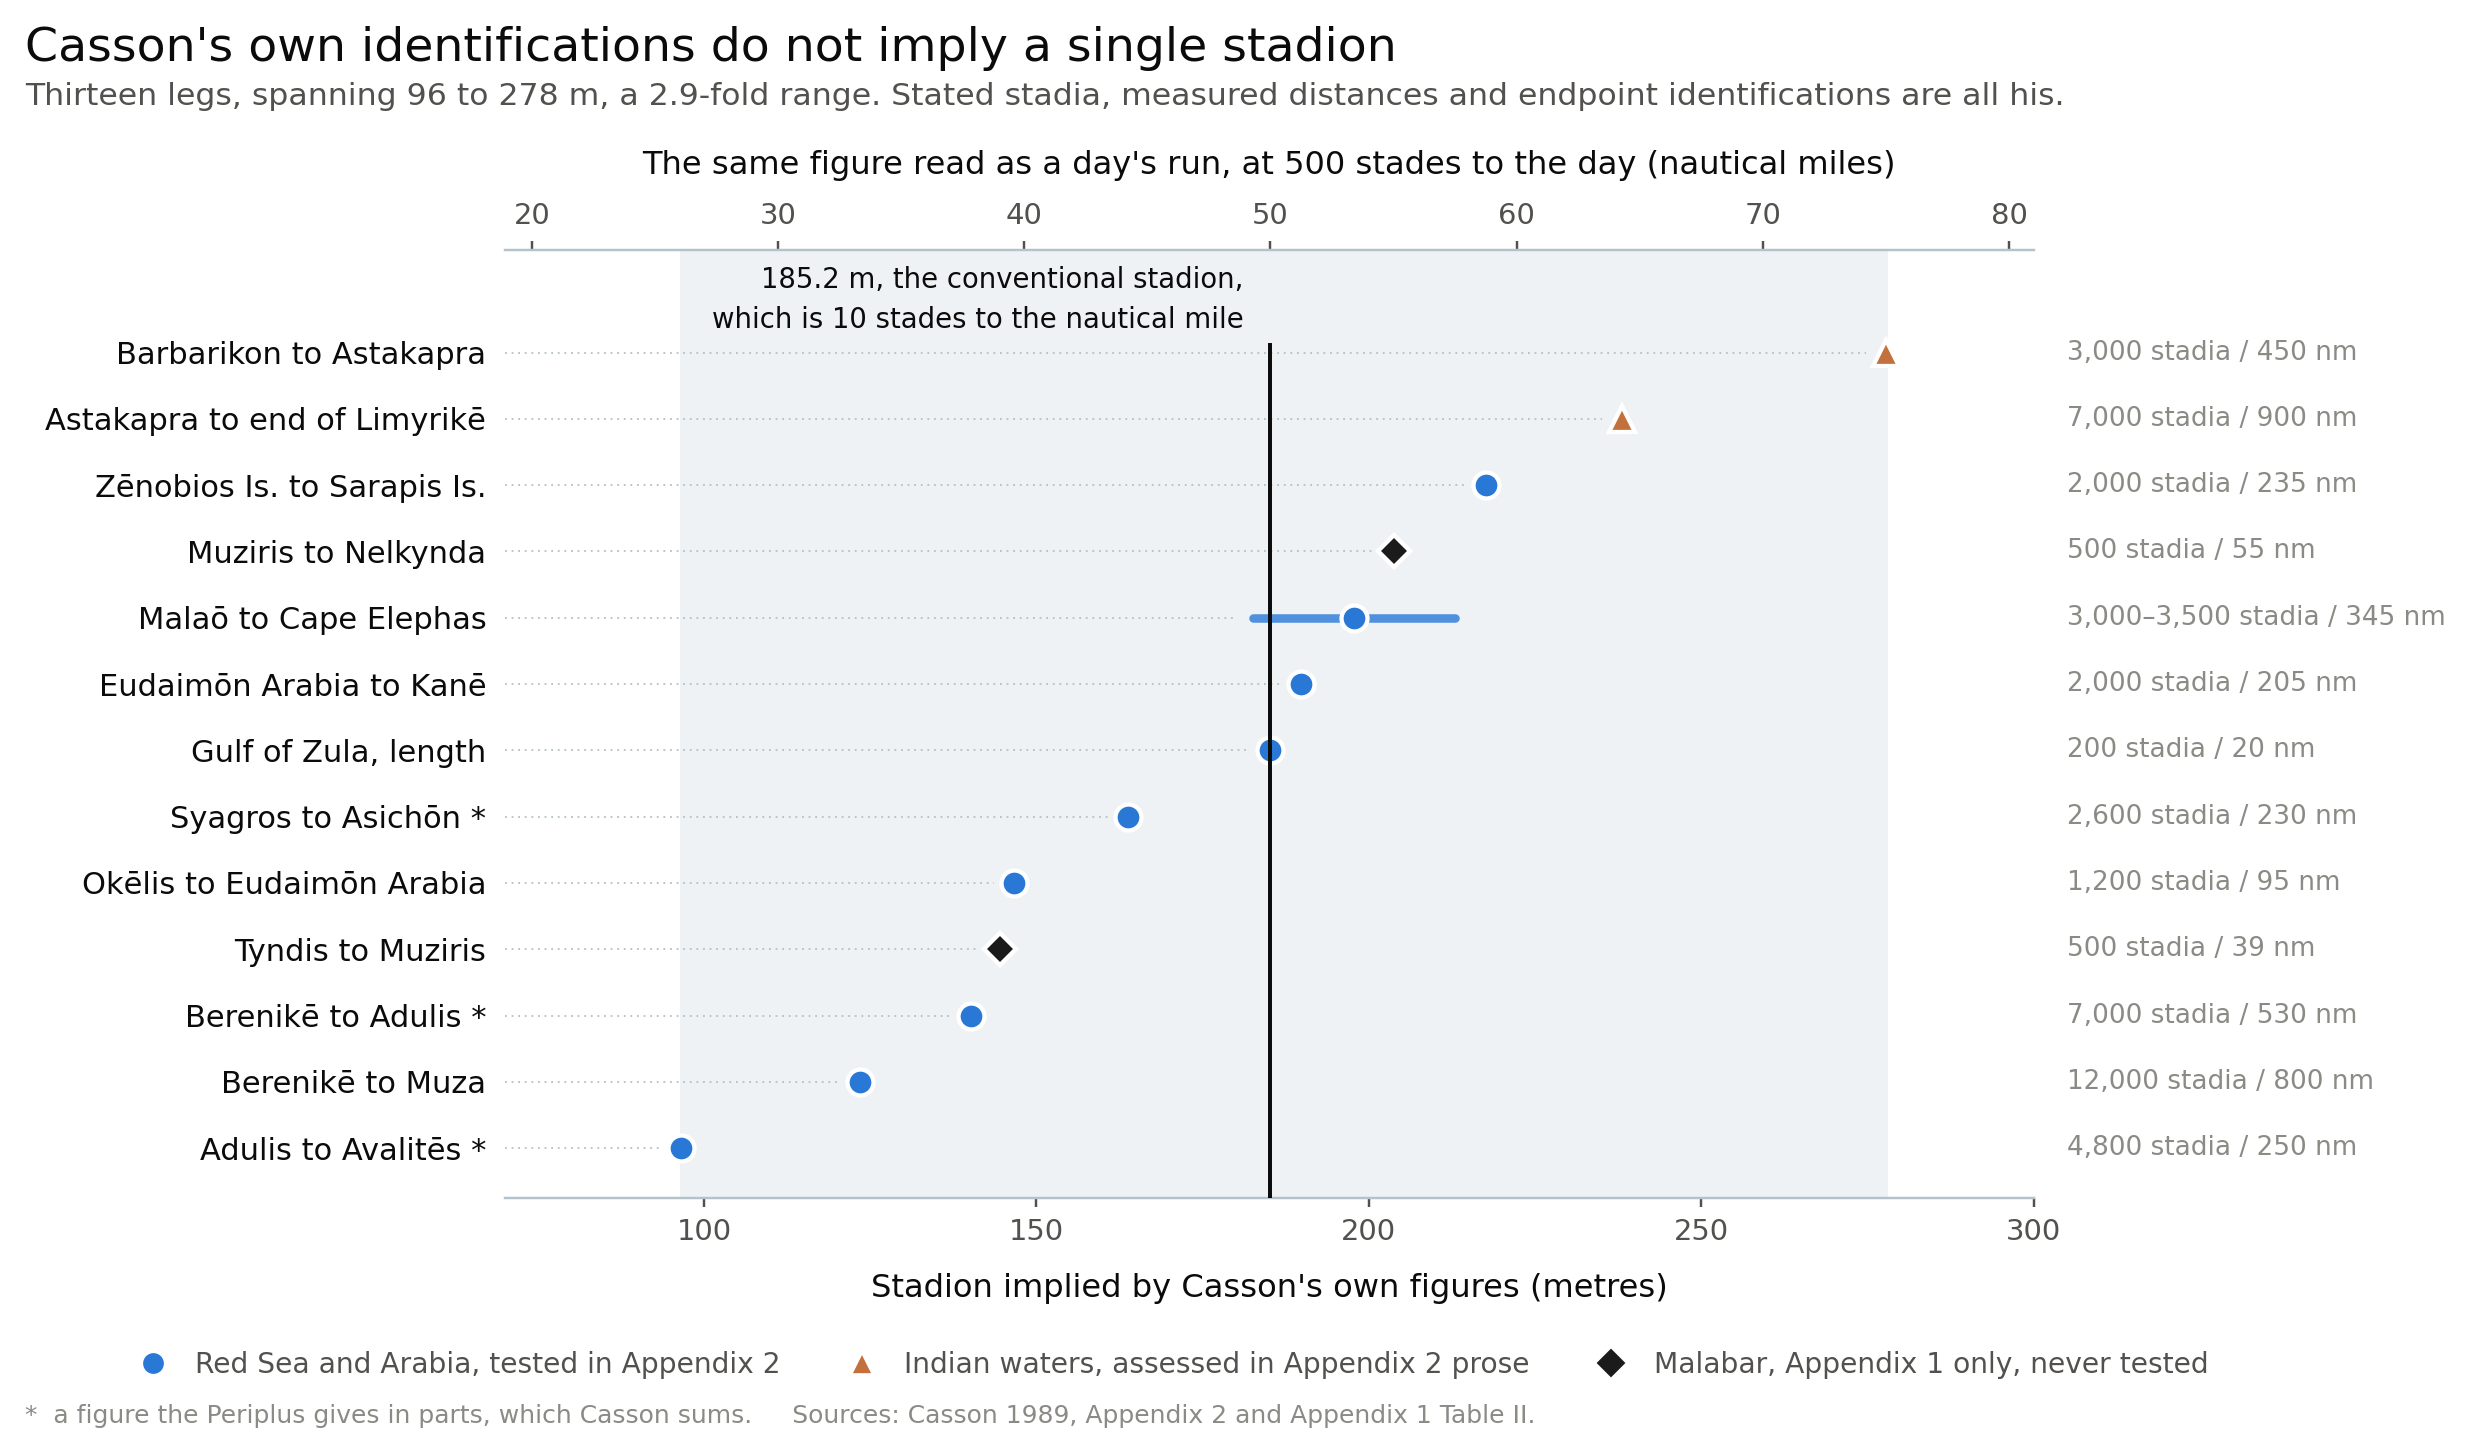
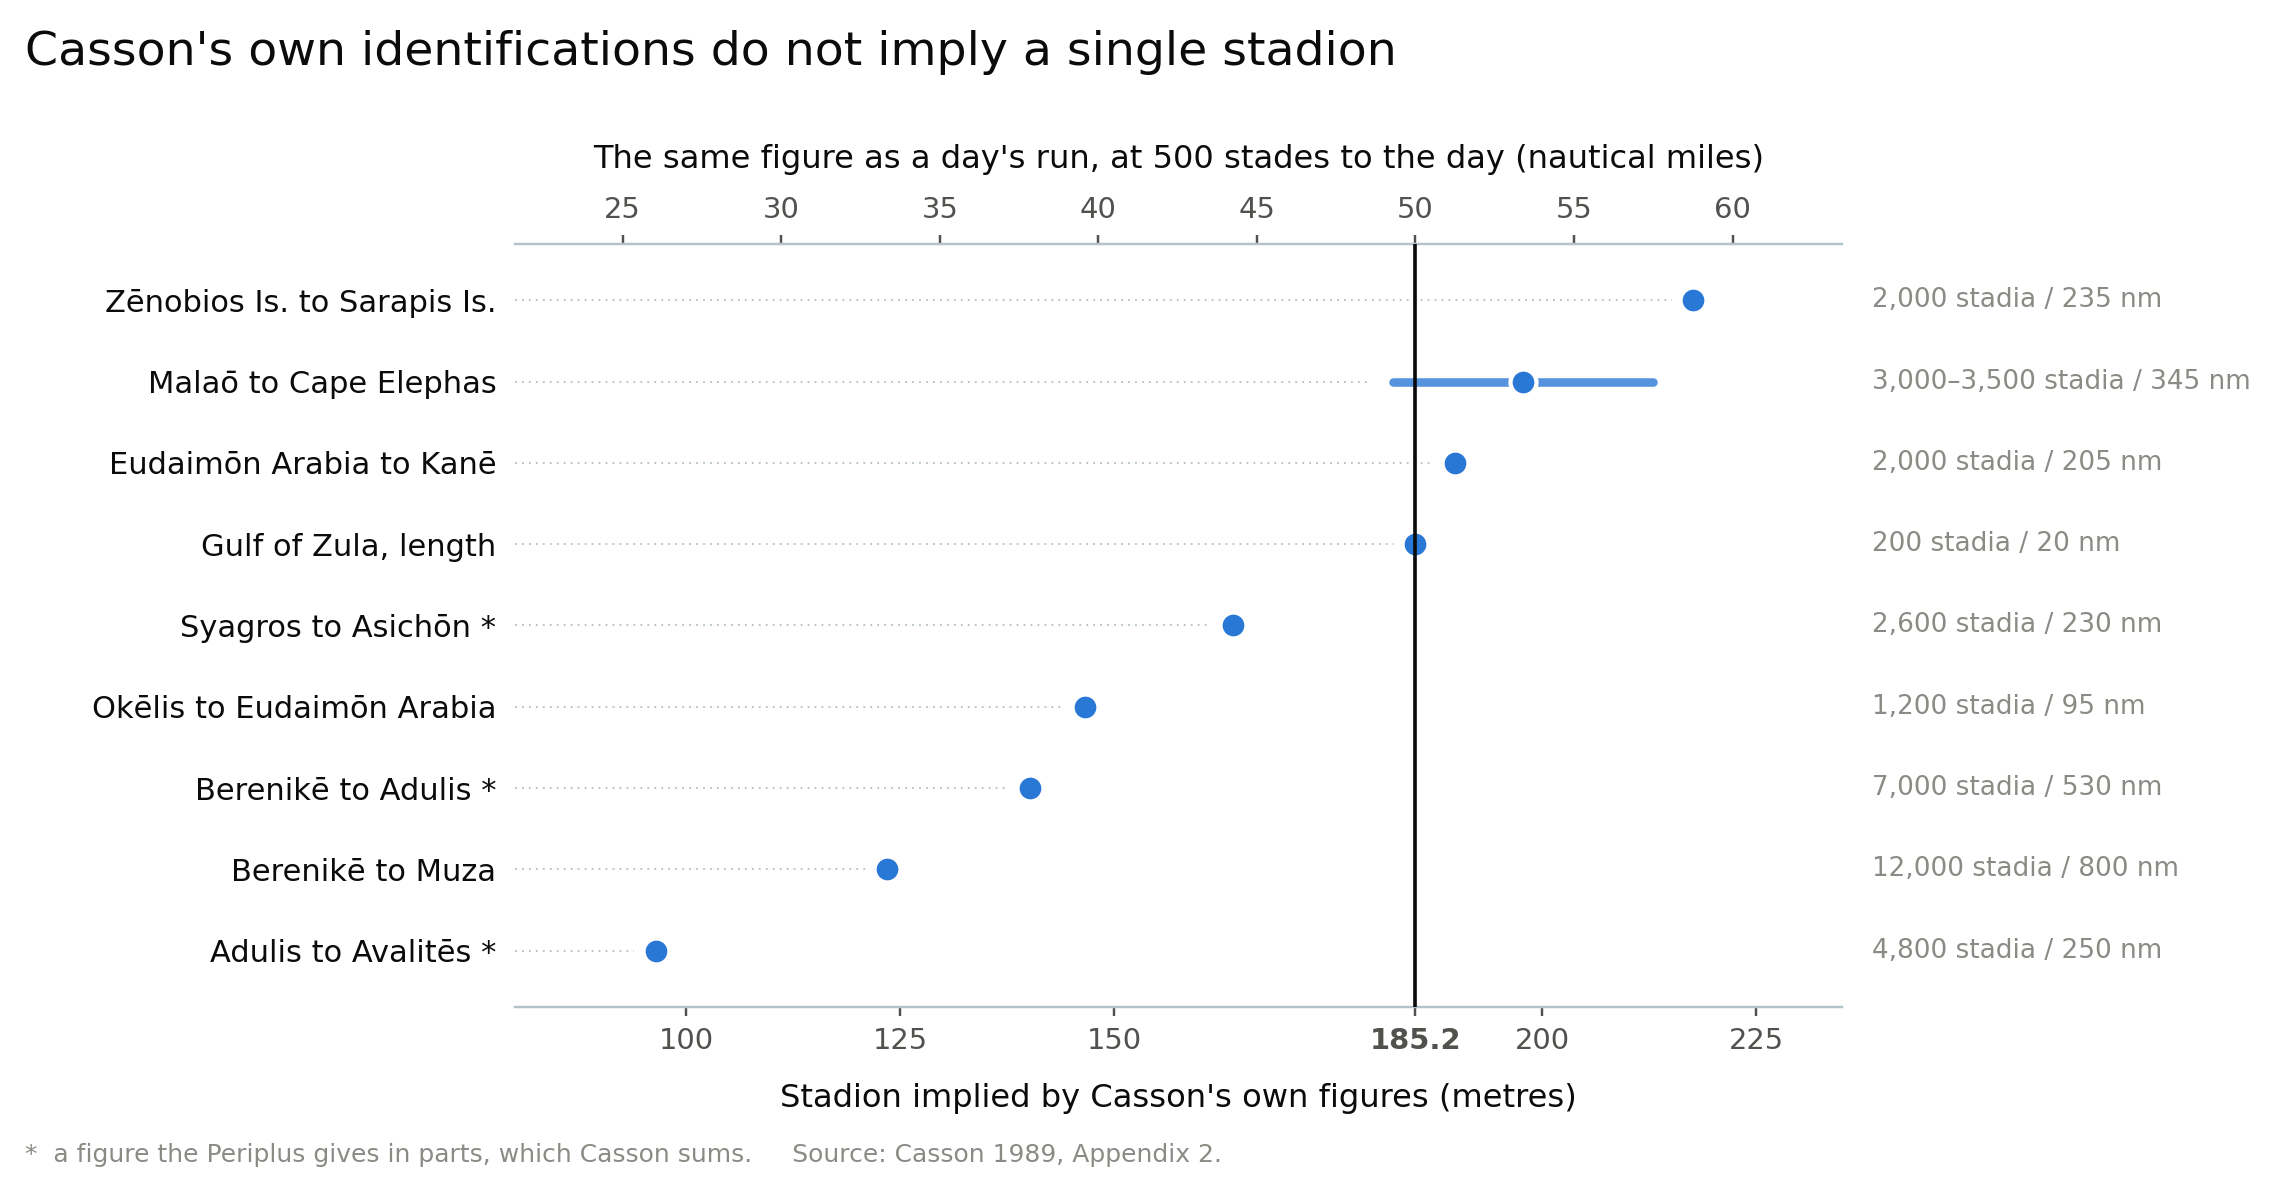
Restrict the stadion figure to legs with secure endpoints
Plotting the Malabar legs assumed Casson's identifications of Tyndis,
Muziris and Nelkynda, which are the disputed question. The figure now
shows only the nine legs of his own Appendix 2 accuracy tables, where
every endpoint is securely located and the 2.3-fold scatter therefore
cannot be blamed on misidentification.

Drop the annotation, the legend and the subheader.

diff --git a/src/make_implied_stadion.py b/src/make_implied_stadion.py
@@ -1,20 +1,17 @@
-"""The stadion implied by Casson's own identifications, leg by leg.
+"""The stadion implied by each leg of Casson's own accuracy tables.
 
 Every number here is Casson's: the stated stadia are his transcription of the
 text, the actual distances are his measurements in nautical miles, and the
-identifications that fix the endpoints are his. Appendix 2 supplies the legs he
-tested for accuracy; Appendix 1, Table II supplies the two Malabar legs, which
-he never tested.
+identifications fixing the endpoints are his. The legs are exactly the ones he
+chose for Appendix 2 to demonstrate the author's accuracy, so every endpoint is
+a securely located place and none of the disputed ports appears.
 
-The conventional 185 m stadion is not a metrological result. It is his stated
-rule of thumb, "approximately ten stades correspond to a nautical mile", which
-is 1852/10 exactly. It is drawn as the vertical line.
+The vertical line is 185.2 m, which is his own rule of thumb that ten stades
+correspond to a nautical mile, and which is the value the field uses.
 
-The top axis reads the same quantity as a speed. Casson's other rule of thumb
-is 500 stades to a day's run, so an implied stadion is a daily distance made
-good divided by 500. The scatter is therefore not textual corruption. It is the
-range of speeds a square-rigged merchantman makes between coasting into a
-headwind and running with the monsoon.
+The top axis reads the same quantity as a speed. His other rule of thumb is 500
+stades to a day's run, so an implied stadion is a daily distance made good
+divided by 500.
 """
 import pathlib
 import matplotlib
@@ -26,31 +23,20 @@ NM = 1852.0
 CONV = NM / 10          # 185.2 m, the conventional stadion
 
 INK, INK_2, MUTED = "#0b0b0b", "#52514e", "#8b8a85"
-RULE, BAND = "#b4c2ca", "#eef2f4"
+RULE, DOT = "#b4c2ca", "#2a78d6"
 
-# Three states, each with its own colour AND marker, so identity never rests
-# on colour alone.
-CLASSES = {
-    "redsea": ("#2a78d6", "o", "Red Sea and Arabia, tested in Appendix 2"),
-    "india":  ("#c2703c", "^", "Indian waters, assessed in Appendix 2 prose"),
-    "malabar": ("#1b1b1b", "D", "Malabar, Appendix 1 only, never tested"),
-}
-
-# label, stated stades (lo, hi), Casson's actual distance in nautical miles, class
+# label, stated stades (a, b), Casson's actual distance in nautical miles
+# Casson 1989, Appendix 2, "Author's distances for short runs" and "for long runs".
 LEGS = [
-    ("Adulis to Avalitēs *",            (4800, 4800),  250, "redsea"),
-    ("Berenikē to Muza",               (12000, 12000), 800, "redsea"),
-    ("Berenikē to Adulis *",            (7000, 7000),  530, "redsea"),
-    ("Okēlis to Eudaimōn Arabia",       (1200, 1200),   95, "redsea"),
-    ("Tyndis to Muziris",                (500, 500),    39, "malabar"),
-    ("Syagros to Asichōn *",            (2600, 2600),  230, "redsea"),
-    ("Gulf of Zula, length",             (200, 200),    20, "redsea"),
-    ("Eudaimōn Arabia to Kanē",         (2000, 2000),  205, "redsea"),
-    ("Malaō to Cape Elephas",           (3000, 3500),  345, "redsea"),
-    ("Muziris to Nelkynda",              (500, 500),    55, "malabar"),
-    ("Zēnobios Is. to Sarapis Is.",     (2000, 2000),  235, "redsea"),
-    ("Astakapra to end of Limyrikē",    (7000, 7000),  900, "india"),
-    ("Barbarikon to Astakapra",         (3000, 3000),  450, "india"),
+    ("Gulf of Zula, length",          (200, 200),    20),
+    ("Malaō to Cape Elephas",   (3000, 3500),  345),
+    ("Okēlis to Eudaimōn Arabia", (1200, 1200), 95),
+    ("Eudaimōn Arabia to Kanē", (2000, 2000), 205),
+    ("Syagros to Asichōn *",     (2600, 2600),  230),
+    ("Zēnobios Is. to Sarapis Is.", (2000, 2000), 235),
+    ("Berenikē to Adulis *", (7000, 7000), 530),
+    ("Adulis to Avalitēs *",     (4800, 4800),  250),
+    ("Berenikē to Muza",   (12000, 12000), 800),
 ]
 
 
@@ -60,47 +46,43 @@ def implied(stades, nm):
 
 def main():
     rows = []
-    for lab, (s_a, s_b), nm, cls in LEGS:
+    for lab, (s_a, s_b), nm in LEGS:
         lo, hi = sorted((implied(s_a, nm), implied(s_b, nm)))
-        rows.append((lab, lo, hi, (lo + hi) / 2, s_a, s_b, nm, cls))
+        rows.append((lab, lo, hi, (lo + hi) / 2, s_a, s_b, nm))
     rows.sort(key=lambda r: r[3])
 
     lo_all = min(r[1] for r in rows)
     hi_all = max(r[2] for r in rows)
-    X0, X1 = 70, 300
+    X0, X1 = 80, 235
 
-    fig, ax = plt.subplots(figsize=(11.3, 6.6))
+    fig, ax = plt.subplots(figsize=(10.4, 5.4))
     fig.patch.set_facecolor("white")
     ax.set_facecolor("white")
     ax.set_xlim(X0, X1)
-    ax.set_ylim(-0.75, len(rows) + 0.55)
+    ax.set_ylim(-0.7, len(rows) - 0.3)
 
-    # The span the evidence actually covers, as a quiet backdrop.
-    ax.axvspan(lo_all, hi_all, color=BAND, zorder=0)
-
-    for i, (lab, lo, hi, mid, s_a, s_b, nm, cls) in enumerate(rows):
-        col, mk, _ = CLASSES[cls]
-        ax.plot([X0, lo - 3], [i, i], color=RULE, lw=0.6, ls=(0, (1, 2.6)),
+    for i, (lab, lo, hi, mid, s_a, s_b, nm) in enumerate(rows):
+        ax.plot([X0, lo - 2.5], [i, i], color=RULE, lw=0.6, ls=(0, (1, 2.8)),
                 zorder=1)
         if hi - lo > 1:                       # a stated range, not a point
-            ax.plot([lo, hi], [i, i], color=col, lw=2.8, solid_capstyle="round",
+            ax.plot([lo, hi], [i, i], color=DOT, lw=2.8, solid_capstyle="round",
                     zorder=3, alpha=0.8)
-        ax.plot([mid], [i], marker=mk, ms=8.5 if mk != "D" else 7.5,
-                color=col, mec="white", mew=1.4, zorder=4, ls="none")
-        stated = f"{s_a:,}" if s_a == s_b else f"{s_a:,}\u2013{s_b:,}"
-        ax.text(X1 + 5, i, f"{stated} stadia / {nm} nm", ha="left", va="center",
-                fontsize=8.6, color=MUTED, clip_on=False)
+        ax.plot([mid], [i], marker="o", ms=8.5, color=DOT, mec="white", mew=1.4,
+                zorder=4, ls="none")
+        stated = f"{s_a:,}" if s_a == s_b else f"{s_a:,}–{s_b:,}"
+        ax.text(X1 + 3.5, i, f"{stated} stadia / {nm} nm", ha="left",
+                va="center", fontsize=8.6, color=MUTED, clip_on=False)
 
-    # The conventional value.
-    ax.axvline(CONV, color=INK, lw=1.3, zorder=5,
-               ymin=0.0, ymax=0.90)
-    ax.text(CONV - 4, len(rows) + 0.30,
-            "185.2 m, the conventional stadion,\nwhich is 10 stades to the nautical mile",
-            ha="right", va="top", fontsize=9, color=INK, linespacing=1.55,
-            zorder=6)
+    ax.axvline(CONV, color=INK, lw=1.2, zorder=5)
 
     ax.set_yticks(range(len(rows)))
     ax.set_yticklabels([r[0] for r in rows], fontsize=10, color=INK)
+    ax.set_xticks([100, 125, 150, 185.2, 200, 225])
+    ax.set_xticklabels(["100", "125", "150", "185.2", "200", "225"])
+    for lbl, t in zip(ax.get_xticklabels(), ax.get_xticks()):
+        if abs(t - CONV) < 0.5:
+            lbl.set_color(INK)
+            lbl.set_fontweight("bold")
     for s in ("left", "right", "top"):
         ax.spines[s].set_visible(False)
     ax.spines["bottom"].set_color(RULE)
@@ -112,35 +94,24 @@ def main():
     # The same quantity read as a speed: 500 stades to a day's run.
     top = ax.secondary_xaxis("top", functions=(lambda m: m * 500 / NM,
                                                lambda d: d * NM / 500))
-    top.set_xlabel("The same figure read as a day's run, at 500 stades to the "
-                   "day (nautical miles)", fontsize=10.5, color=INK, labelpad=9)
+    top.set_xlabel("The same figure as a day's run, at 500 stades to the day "
+                   "(nautical miles)", fontsize=10.5, color=INK, labelpad=9)
     top.tick_params(colors=INK_2, length=3, labelsize=9.5)
     top.spines["top"].set_color(RULE)
 
-    handles = [plt.Line2D([], [], marker=mk, ls="none", color=c, ms=8,
-                          mec="white", mew=1.2, label=lbl)
-               for c, mk, lbl in CLASSES.values()]
-    ax.legend(handles=handles, loc="upper left", bbox_to_anchor=(-0.265, -0.135),
-              frameon=False, fontsize=9.2, handletextpad=0.5,
-              labelcolor=INK_2, ncol=3, columnspacing=1.9)
-
     fig.suptitle("Casson's own identifications do not imply a single stadion",
-                 x=0.010, y=0.982, ha="left", fontsize=15.5, color=INK)
-    fig.text(0.010, 0.928,
-             f"Thirteen legs, spanning {lo_all:.0f} to {hi_all:.0f} m, a "
-             f"{hi_all/lo_all:.1f}-fold range. Stated stadia, measured distances "
-             "and endpoint identifications are all his.",
-             ha="left", fontsize=10.3, color=INK_2)
-    fig.text(0.010, 0.020,
+                 x=0.011, y=0.975, ha="left", fontsize=15.5, color=INK)
+    fig.text(0.011, 0.022,
              "*  a figure the Periplus gives in parts, which Casson sums."
-             "     Sources: Casson 1989, Appendix 2 and Appendix 1 Table II.",
+             "     Source: Casson 1989, Appendix 2.",
              ha="left", fontsize=8.2, color=MUTED)
 
-    fig.subplots_adjust(left=0.203, right=0.818, top=0.828, bottom=0.175)
+    fig.subplots_adjust(left=0.225, right=0.805, top=0.795, bottom=0.152)
     out = ROOT / "figures/09_implied_stadion.png"
     fig.savefig(out, dpi=220, facecolor="white")
     print("wrote", out)
     print(f"range {lo_all:.1f} - {hi_all:.1f} m  ({hi_all/lo_all:.2f}x)")
+    print(f"daily runs {lo_all*500/NM:.0f} - {hi_all*500/NM:.0f} nm")
 
 
 if __name__ == "__main__":

diff --git a/docs/FINDINGS.md b/docs/FINDINGS.md
@@ -146,11 +146,15 @@ text are 12, 15 and 18.
 
 Computed leg by leg from his own numbers — his transcription of the stadia, his
 measurements in nautical miles, his identifications fixing the endpoints —
-**the implied stadion runs from 96.5 m to 277.8 m, a 2.9-fold range**.
-Figure `09_implied_stadion.png`, built by `src/make_implied_stadion.py`.
+**the nine legs of his Appendix 2 accuracy tables imply a stadion running from
+96.5 m to 217.6 m, a 2.3-fold range**. Every endpoint in those nine is a
+securely located place, so the scatter cannot be blamed on misidentification.
+Adding the Indian legs he assesses in prose takes the range to 277.8 m.
+Figure `09_implied_stadion.png`, built by `src/make_implied_stadion.py`, plots
+the nine.
 
 Read as a speed rather than a length, those same values are daily runs of 26 to
-75 nautical miles, which is the ordinary range for a square-rigged merchantman
+59 nautical miles, which is the ordinary range for a square-rigged merchantman
 between coasting into a headwind and running with the monsoon. **The scatter is
 the wind.** That connects the textual stream directly to the voyage simulation
 rather than leaving them as separate chapters.
@@ -767,6 +771,8 @@ Still to build, in order of value:
 6. **Coastline displacement per port**, which is really a map of how wide each
    search window has to be.
 
-Built since: `09_implied_stadion.png`, the stadion implied by each of Casson's
-own legs, with the conventional 185.2 m drawn as a line and a second axis
-reading the same quantity as a day's run in nautical miles.
+Built since: `09_implied_stadion.png`, the stadion implied by each of the nine
+legs in Casson's own accuracy tables, with the conventional 185.2 m drawn as a
+line and a second axis reading the same quantity as a day's run in nautical
+miles. The disputed ports are deliberately absent, since plotting a Malabar leg
+would assume the identification in question.
